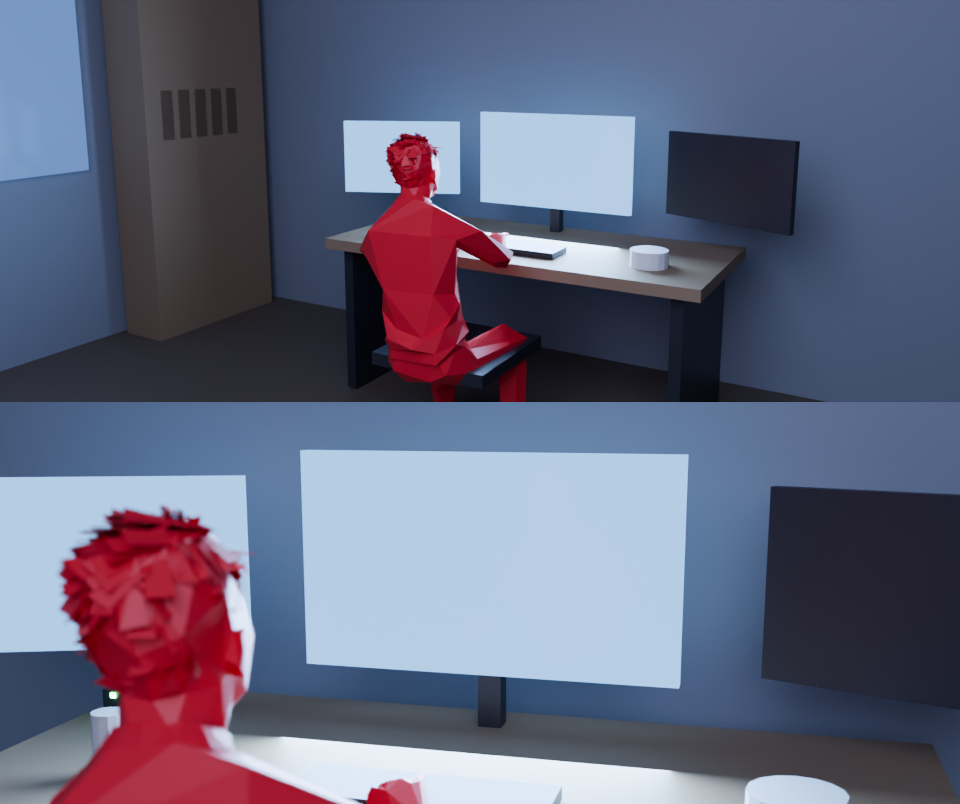
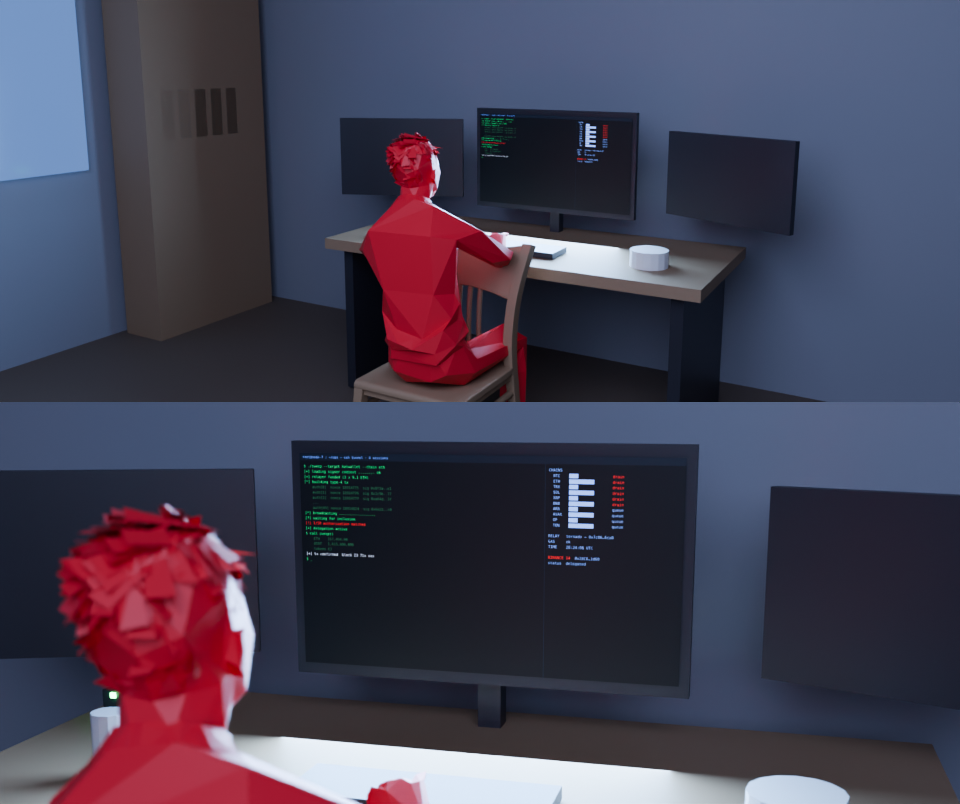
binance-hack : chambre du pirate v6 (vraie chaise du kit, écrans de hacker)
Claude-Session: https://claude.ai/code/session_01NUPGja6q8p9tEPhgRf3xaC

diff --git a/videos/binance-hack/code/ecrans/ecran.html b/videos/binance-hack/code/ecrans/ecran.html
@@ -1,0 +1,13 @@
+<!doctype html><html><head><meta charset="utf-8"><style>
+body{margin:0;width:1600px;height:900px;background:#05080d;font:15px/1.45 "DejaVu Sans Mono",monospace;color:#3fdc7a;overflow:hidden}
+.bar{height:30px;background:#0c1420;color:#7fa3ff;padding:6px 14px;box-sizing:border-box;font-size:14px}
+.w{display:flex;height:870px}.c{flex:1;padding:14px 18px;white-space:pre}.r{width:520px;border-left:1px solid #13324a;padding:14px;white-space:pre;color:#8fb3ff}
+.red{color:#ff3b30}.dim{color:#2a6a44}.wh{color:#e6eefc}
+</style></head><body><div class="bar">root@node-7 : ~/ops — ssh tunnel · 4 sessions</div><div class="w"><div class="c" id="c"></div><div class="r" id="r"></div></div>
+<script>
+const L=["$ ./sweep --target hotwallet --chain eth","[+] loading signer context ........ ok","[+] relayer funded (3 x 0.1 ETH)","[*] building type-4 tx","    auth[0]  nonce 18914775  sig 0x8f3a..e1","    auth[1]  nonce 18914776  sig 0x1c9b..77","    auth[2]  nonce 18914777  sig 0xa04d..3f","    ...","    auth[49] nonce 18914824  sig 0x6e21..c0","[*] broadcasting ..................","[?] waiting for inclusion","<span class=red>[!] 1/50 authorization matched</span>","[+] delegation active","$ call sweep()","    ETH    167,464.00","    USDT   1,615,000,000","    tokens 63","<span class=wh>[+] tx confirmed  block 23 71x xxx</span>","$ _"];
+document.getElementById('c').innerHTML=L.map(l=>l.startsWith('    ')?'<span class=dim>'+l+'</span>':l).join('\n');
+let r="CHAINS\n";["BTC","ETH","TRX","SOL","XRP","BNB","ARB","AVAX","OP","TON"].forEach((c,i)=>r+=`  ${c.padEnd(6)} ${'█'.repeat(4+(i*7)%14).padEnd(18)} ${i<6?'<span class=red>drain</span>':'queue'}\n`);
+r+="\nRELAY   tornado → 0x7c86…6ca0\nGAS     ok\nTIME    20:24:06 UTC\n\n<span class=red>BINANCE 14</span>  0x28C6…1d60\nstatus  delegated\n";
+document.getElementById('r').innerHTML=r;
+</script></body></html>

diff --git a/videos/binance-hack/code/ecrans/ecran2.html b/videos/binance-hack/code/ecrans/ecran2.html
@@ -1,0 +1,2 @@
+<!doctype html><html><head><meta charset="utf-8"><style>body{margin:0;width:1200px;height:900px;background:#04070b;font:16px/1.5 "DejaVu Sans Mono",monospace;color:#5aa0ff;white-space:pre;padding:20px;box-sizing:border-box;overflow:hidden}.g{color:#3fdc7a}</style></head><body><script>
+let s="";for(let i=0;i<34;i++){let h="";for(let k=0;k<5;k++)h+=Math.random().toString(16).slice(2,10)+" ";s+=(i%6==0?'<span class=g>'+'0x'+(18914775+i).toString(16)+'</span>  ':'           ')+h+"\n"}document.body.innerHTML=s;</script></body></html>

diff --git a/videos/binance-hack/blender/chambre_pirate.py b/videos/binance-hack/blender/chambre_pirate.py
@@ -10,7 +10,11 @@ def mat(n,c,r=.6,e=None,es=0):
     return m
 MUR=mat('mur',(.32,.33,.38)); SOL=mat('sol',(.18,.14,.11)); BOIS=mat('bois',(.35,.24,.15)); NOIR=mat('noir',(.04,.04,.05),.4)
 ROUGE=mat('TRU_rouge',(.75,.04,.05),.45); BLANC=mat('blanc',(.8,.8,.82))
-ECRAN=mat('ecran',(.02,.04,.08),.2,(.25,.55,1),1.6); LED=mat('led',(0,.2,0),.5,(.1,1,.3),15); RIDEAU=mat('rideau',(.12,.12,.16))
+def img_mat(n,path,force=1.4):
+    m=bpy.data.materials.new(n); m.use_nodes=True; nt=m.node_tree; b=nt.nodes['Principled BSDF']
+    t=nt.nodes.new('ShaderNodeTexImage'); t.image=bpy.data.images.load(path)
+    nt.links.new(t.outputs[0],b.inputs['Base Color']); nt.links.new(t.outputs[0],b.inputs['Emission Color']); b.inputs['Emission Strength'].default_value=force; return m
+ECRAN=img_mat('ecran_hack','videos/binance-hack/code/ecrans/ecran.png'); ECRAN2=img_mat('ecran_hex','videos/binance-hack/code/ecrans/ecran2.png'); LED=mat('led',(0,.2,0),.5,(.1,1,.3),15); RIDEAU=mat('rideau',(.12,.12,.16))
 NUIT=mat('nuit',(.02,.03,.06),.1,(.1,.18,.4),1.5)
 def box(n,p,s,m,r=(0,0,0)):
     bpy.ops.mesh.primitive_cube_add(location=p,rotation=r); o=bpy.context.object; o.name=n; o.scale=[x/2 for x in s]; o.data.materials.append(m); return o
@@ -20,8 +24,11 @@ box('sol',(0,0,-.05),(6,6,.1),SOL); box('mur_f',(0,2.2,1.4),(6,.1,2.8),MUR); box
 box('fenetre',(-2.54,.3,1.6),(.05,1.4,1.2),NUIT); box('rideau',(-2.5,-.55,1.5),(.08,.5,1.9),RIDEAU)
 box('table',(0,1.5,.74),(1.8,.8,.05),BOIS)
 for x in(-.8,.8): box('pied',(x,1.5,.37),(.05,.7,.72),NOIR)
-box('ecran_c',(0,1.75,1.12),(.8,.03,.46),ECRAN); box('pied_e',(0,1.8,.85),(.05,.05,.2),NOIR)
-box('ecran_g',(-.85,1.68,1.1),(.62,.03,.38),ECRAN,(0,0,math.radians(22)))
+def dalle(n,p,w,h,m,rz=0):
+    bpy.ops.mesh.primitive_plane_add(location=p,rotation=(math.radians(90),0,math.radians(rz)))
+    o=bpy.context.object; o.name=n; o.scale=(w/2,h/2,1); o.data.materials.append(m); return o
+box('ecran_c',(0,1.75,1.12),(.84,.03,.5),NOIR); dalle('dalle_c',(0,1.73,1.12),.8,.45,ECRAN); box('pied_e',(0,1.8,.85),(.05,.05,.2),NOIR)
+box('ecran_g',(-.85,1.68,1.1),(.66,.03,.41),NOIR,(0,0,math.radians(22))); dalle('dalle_g',(-.855,1.664,1.1),.62,.37,ECRAN2,22)
 box('ecran_d',(.85,1.68,1.1),(.62,.03,.38),NOIR,(0,0,math.radians(-22)))
 box('clavier',(0,1.32,.78),(.46,.15,.025),NOIR)
 cyl('canette',(-.6,1.3,.83),.033,.12,mat('alu',(.6,.6,.62),.3),12); cyl('bol',(.62,1.35,.8),.08,.07,BLANC,16)
@@ -31,7 +38,7 @@ for k in range(4): box('led',(-.83+k*.05,1.65,.81),(.012,.005,.012),LED)
 box('lit',(1.9,-.6,.25),(1.2,2.2,.5),mat('drap',(.25,.27,.32))); box('etagere',(-2.35,1.6,1.1),(.3,.9,2.2),BOIS)
 for k in range(5): box('livre',(-2.3,1.3+k*.12,1.3),(.2,.08,.28),mat(f'l{k}',[(.5,.2,.15),(.2,.3,.5),(.6,.55,.4),(.2,.4,.3),(.4,.4,.45)][k]))
 # pirate : GLB figé de Silk Road (assis, tape), recoloré en rouge TRU
-bpy.ops.import_scene.gltf(filepath='/home/claude/repo/assets3d/silk-road/glb/ross_assis_tape.glb')
+bpy.ops.import_scene.gltf(filepath='assets3d/silk-road/glb/ross_assis_tape.glb')
 objs=[o for o in bpy.context.selected_objects]
 racine=[o for o in objs if o.parent is None]
 for o in objs:
@@ -53,7 +60,34 @@ for o in objs:
             v=o.matrix_world@Vector(c); mins=Vector(map(min,mins,v)); maxs=Vector(map(max,maxs,v))
 ctr=(mins+maxs)/2
 for r in racine: r.location+=Vector((0-ctr.x,.85-ctr.y,-mins.z))
-box('chaise',(0,.85,.45),(.5,.5,.05),NOIR)
+SEAT_Y=.85-(ctr.y-mins.y)*0.35
+
+KIT='assets3d/objets/kit_meubles.blend'
+with bpy.data.libraries.load(KIT) as (a,b): b.objects=list(a.objects)
+garde=set()
+def desc(o):
+    garde.add(o); [desc(c) for c in o.children]
+racines=[o for o in b.objects if o and o.name=='Wooden Chair']
+for r in racines: desc(r)
+for o in b.objects:
+    if o and o not in garde: bpy.data.objects.remove(o)
+for o in garde: sc.collection.objects.link(o)
+ch=racines[0]; ch.rotation_mode='XYZ'
+bpy.context.view_layer.update()
+def bb(objs):
+    mi=Vector((1e9,)*3); ma=Vector((-1e9,)*3)
+    for o in objs:
+        if o.type=='MESH':
+            for c in o.bound_box:
+                v=o.matrix_world@Vector(c); mi=Vector(map(min,mi,v)); ma=Vector(map(max,ma,v))
+    return mi,ma
+mi,ma=bb(garde); print('CHAISE',mi,ma)
+k=0.9/(ma.z-mi.z); ch.scale=[x*k for x in ch.scale]
+bpy.context.view_layer.update(); mi,ma=bb(garde)
+ch.location+=Vector((0-(mi.x+ma.x)/2, SEAT_Y-(mi.y+ma.y)/2, -mi.z))
+for o in garde:
+    if o.type=='MESH': o.data.materials.clear(); o.data.materials.append(NOIR if False else BOIS)
+
 # lumière : écran (clé bleue) + contre-jour chaud de la rue + ambiance lisible
 bpy.ops.object.light_add(type='AREA',location=(0,1.6,1.15)); a=bpy.context.object; a.data.energy=60; a.data.size=.8; a.data.color=(.35,.6,1); a.rotation_euler=(math.radians(-90),0,0)
 bpy.ops.object.light_add(type='SPOT',location=(-3.5,.3,2.2)); s=bpy.context.object; s.data.energy=900; s.data.color=(1,.6,.3); s.data.spot_size=math.radians(50); s.rotation_euler=(0,math.radians(-70),0)
@@ -65,4 +99,4 @@ def cam(n,loc,tgt,lens):
 sc.render.engine='CYCLES'; sc.cycles.device='CPU'; sc.cycles.samples=32; sc.cycles.use_denoising=True
 sc.render.resolution_x=1920; sc.render.resolution_y=804; sc.render.resolution_percentage=50
 for n,loc,tgt,lens in [('large',(1.6,-1.8,1.6),Vector((-.1,1.2,1.0)),30),('dos',(.55,-.35,1.45),Vector((0,1.7,1.05)),40),('epaule',(-.9,1.1,1.3),Vector((.1,1.0,1.15)),50)]:
-    sc.camera=cam(n,loc,tgt,lens); sc.render.filepath=f'/home/claude/rendu/chambre_v4_{n}.png'; bpy.ops.render.render(write_still=True); print('RENDU',n)
+    sc.camera=cam(n,loc,tgt,lens); sc.render.filepath=f'videos/binance-hack/blender/chambre_v6_{n}.png'; bpy.ops.render.render(write_still=True); print('RENDU',n)
